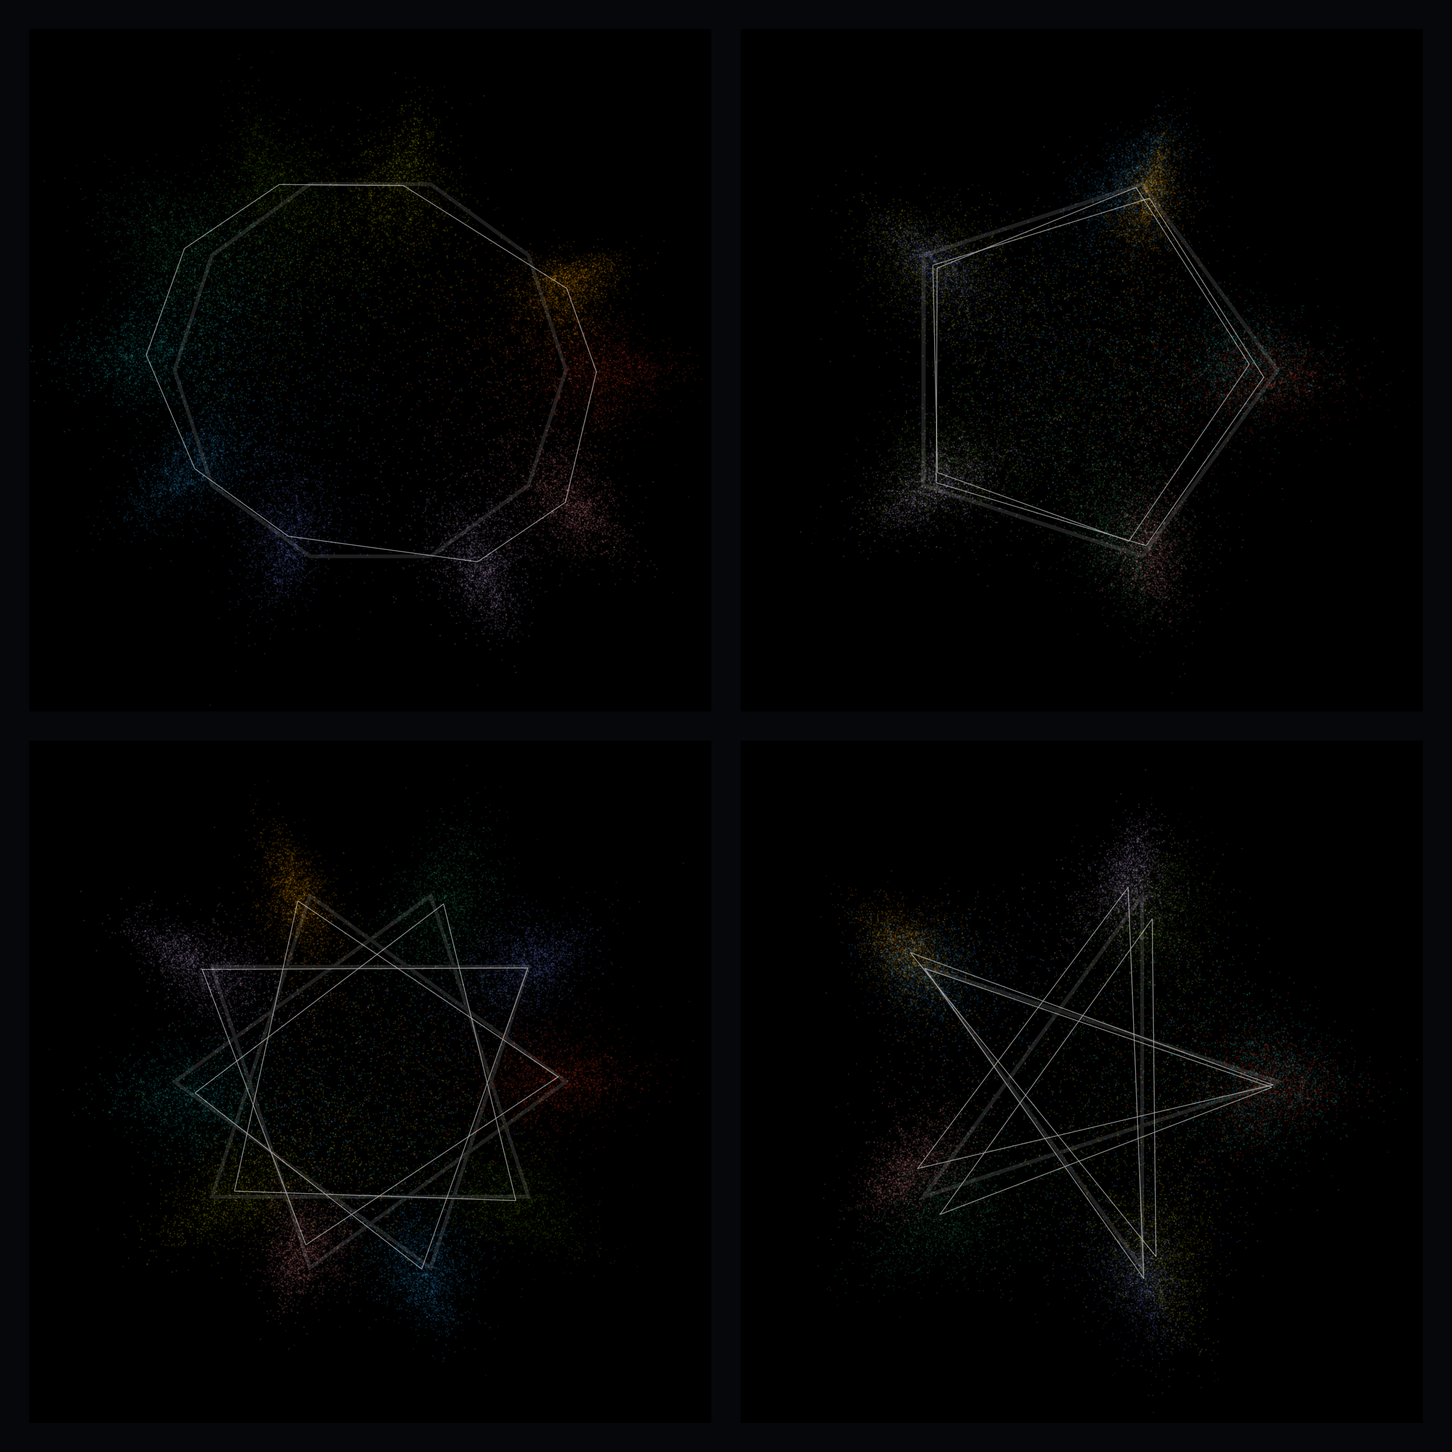
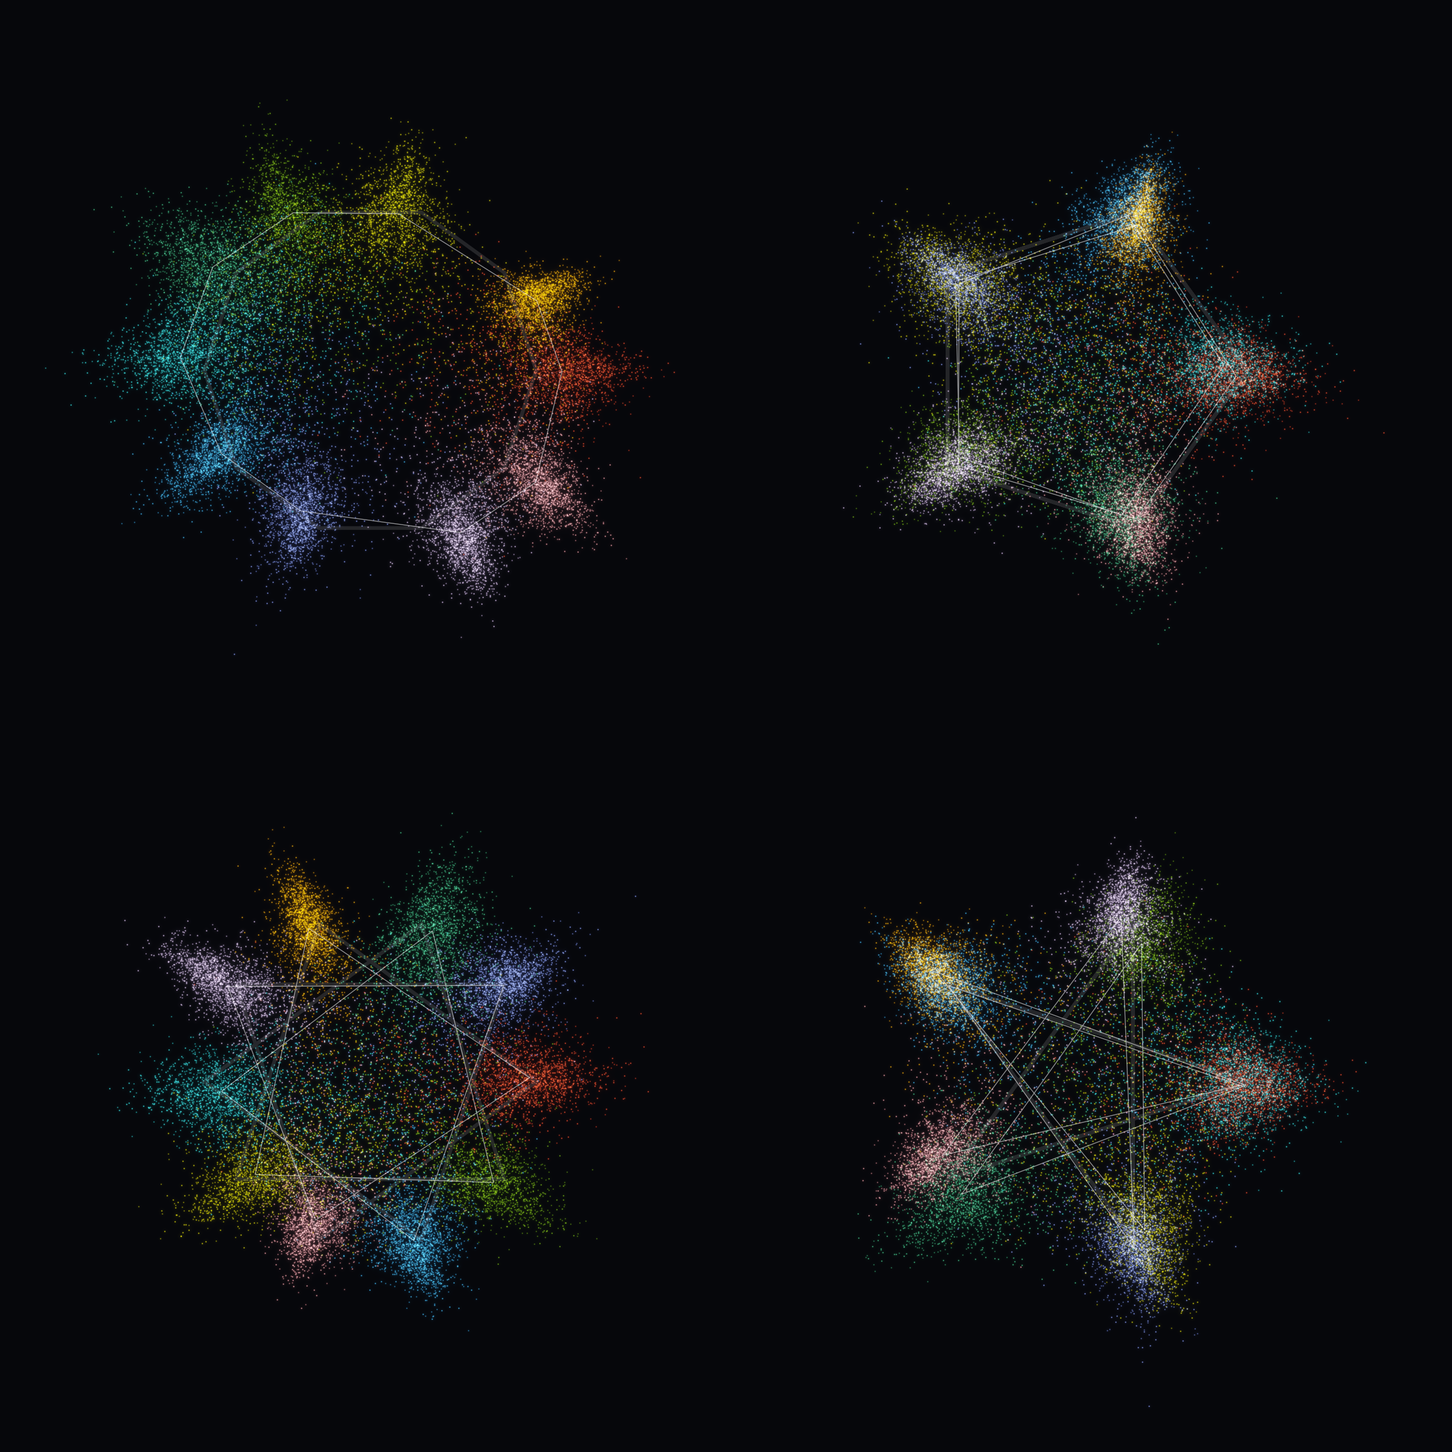
art/neural-collapse: README with verification vs random null, re-exposed star plates, NOTES

diff --git a/art/neural-collapse/README.md b/art/neural-collapse/README.md
@@ -1,0 +1,125 @@
+# Neural Collapse: stars and tetrahedra from the terminal phase of training
+
+*Train a ResNet far past zero training error and its last-layer class means drift toward a perfectly symmetric simplex. For 10 classes the Fourier planes of that simplex show {10/k} star polygons, and for 4 classes it is a regular tetrahedron you can 3-D print. This page shows how close our runs actually got, including where they didn't beat a random baseline.*
+
+<p align="center">
+<img src="gallery/stars_c10_night_k3_ep200.00.png" width="46%">
+<img src="gallery/tetra_series_c4_brass.png" width="52%">
+</p>
+
+<p align="center">
+<video src="gallery/film_stars_c10_night_720.mp4" autoplay loop muted playsinline width="46%"></video>
+<video src="gallery/film_tetra_c4_brass.mp4" autoplay loop muted playsinline width="46%"></video>
+</p>
+
+## 1. The phenomenon
+
+Papyan, Han and Donoho (2020) looked at the penultimate features h of a classifier trained past 100 % train accuracy (the *terminal phase*). Let μ_c be the class means, μ_G the global mean, Σ_W the within-class and Σ_B the between-class covariance, and W the last-layer weights. They found four properties:
+
+- **NC1, variability collapse:** tr(Σ_W Σ_B⁺)/C → 0. Each class cloud shrinks onto its mean.
+- **NC2, simplex ETF:** the centred means μ_c − μ_G become equal-norm and equiangular, with cos(μ_c−μ_G, μ_c'−μ_G) → −1/(C−1). This is the most spread-out way to place C points.
+- **NC3, self-duality:** W/‖W‖ → M/‖M‖, so the classifier rows line up with the means.
+- **NC4, nearest-class-mean:** the network's decision becomes argmin_c ‖h − μ_c‖.
+
+**Why stars.** A C-point simplex ETF lives in the (C−1)-dimensional space 1⊥. The discrete Fourier vectors cos(2πkj/C) and sin(2πkj/C) for k = 1…⌊(C−1)/2⌋ form an orthonormal basis of that space. In plane k, vertex j sits at angle 2πkj/C on a circle. Joining j → j+1 therefore draws the regular star polygon {C/k}. For C = 10 that gives {10/1} a decagon, {10/2} two coincident pentagons, {10/3} a decagram and {10/4} two coincident pentagrams (k = 5 is a line). The measured means are mapped onto this frame by an **isometry**: an SVD basis of their span, orthogonal Procrustes onto the ideal vertices, and one global scale. Because there is no shear, a non-ETF configuration still looks non-ETF. The maths was checked numerically: an exact ETF gives residual 8e-16. **Misfit** = ‖aligned means − ideal‖_F / ‖ideal‖_F.
+
+**Why a tetrahedron.** For C = 4 the centred means span exactly 3 dimensions, so the 3-D picture is faithful up to rotation and a single scale. Nothing is lost in projection. Only the sample clouds, which live in 256-d, are projected.
+
+## 2. Gallery
+
+### C = 10: star-polygon projections (CIFAR-10)
+| | |
+|---|---|
+| <img src="gallery/stars_c10_night_k1234_ep200.00.png" width="100%"> | <img src="gallery/stars_c10_night_k3_sequence.png" width="100%"> |
+| **Night, epoch 200.** Planes k=1..4. 10k train-subset and 10k test features, class hue (colorcet cyclic, declared), additive glow with per-plate auto exposure (declared). Bright line = measured means, faint line = ideal. | **{10/3} over training** (epochs 0, 0.1, 1, 5, 20, 60, 100, 200), with misfit and NC1 in each tile. |
+| <img src="gallery/stars_c10_spectral_k1234_ep200.00.png" width="100%"> | <img src="gallery/stars_c10_riso_k1234_ep200.00.png" width="100%"> |
+| **Spectral (Sohl-Dickstein split).** Per-sample logit margin (correct − best other). Red side = misclassified, purple/blue side = correct, rank-normalised per side, dark seam = decision boundary. The misclassified points (almost all test) fill the centre. | **Riso.** Fluo pink = train, blue = test, with a declared 4 px/1200 misregistration. Train collapses onto the vertices while test stays a haze inside. |
+| <img src="gallery/plotter_stars_c10_ink.png" width="100%"> | <img src="gallery/plotter_stars_c10_spectral.png" width="100%"> |
+| **Plotter sheet.** 31 distinct log-spaced checkpoints of the mean star, overdrawn (faint = early, heavy = late). Red dashes = ideal. The heavy late lines visibly miss the ideal, which matches the residual misfit of 0.11. | **Same sheet, Spectral by epoch.** A declared sequential use of Spectral, labelled variant only. |
+| <img src="gallery/stars_c10_night_k1234_ep000.00.png" width="100%"> | <img src="gallery/stars_c10_night_k1234_ep010.00.png" width="100%"> |
+| Initialisation (misfit 0.915): features share one dominant direction. | Epoch 10 (misfit 0.364). |
+
+**Film.** [`film_stars_c10_night_720.mp4`](gallery/film_stars_c10_night_720.mp4) (26 s, 720², 10 MB) and a [GIF](gallery/film_stars_c10_night.gif) (360 px, 11 MB). It runs through all 93 checkpoints with 8 linearly tweened frames each, then a 2 s hold. Exposure is fixed for the whole film from the epoch-10 checkpoint, so condensation shows up as brightening. Each frame has its own global scale (feature norm grows 0.11 → 14.6). The checkpoint spacing is roughly logarithmic, so film time is not linear in epoch. A 1080² master `gallery/film_stars_c10_night_1080.mp4` (75 MB) is **not committed**; regenerate it with `film_stars.py`.
+
+### C = 4: terminal-phase tetrahedra (airplane, automobile, bird, cat)
+| | |
+|---|---|
+| <img src="gallery/tetra_series_c4_brass.png" width="100%"> | <img src="gallery/tetra_series_c4_plotter.png" width="100%"> |
+| **Brass, I–V** = init, epoch 2, 16, 60, 250. Measured means as tubes, dotted ghost = ideal. The class-coloured dust is train + test samples projected into the 3-D mean span (lossy). Captions give the 6 measured angles. | **Plotter.** Line only, hidden edges dashed (declared depth cue). |
+| <img src="gallery/tetra_series_c4_cyanotype.png" width="100%"> | <img src="gallery/tetra_series_c4_spectral.png" width="100%"> |
+| **Cyanotype.** | **Spectral.** Edge colour = signed deviation of that pairwise angle from 109.47°, split at 0 (purple = more acute, red = more obtuse), rank-normalised across the series. |
+
+**Rotation film.** [`film_tetra_c4_brass.mp4`](gallery/film_tetra_c4_brass.mp4) (25 s, 1080²) and a [GIF](gallery/film_tetra_c4_brass.gif). The shape morphs through all 101 checkpoints (4 tweened frames each) while the camera turns, then the final state makes a full 360° turn. Dust exposure is fixed from epoch 60.
+
+**Meshes.** `gallery/stl/terminal_phase_{I..V}_ep*.stl` are rods, spheres and a hub, with the ideal circumradius 50 mm and measured vertex positions.
+
+### Metrics as images
+| | |
+|---|---|
+| <img src="gallery/misfit_c10_c4_paper.png" width="100%"> | <img src="gallery/curves_c10_c4_paper.png" width="100%"> |
+| **Misfit vs epoch** for train means, test means and classifier rows, against **random-means null bands** (i.i.d. Gaussian means, d = 256 and d = 64, 5–95 %). | **NC1–NC4 and error**, train solid and test dashed, with log epoch and lr drops dotted. The grey band on the NC2 rows is the same random null. ([night version](gallery/curves_c10_c4_night.png), [night misfit](gallery/misfit_c10_c4_night.png)) |
+| <img src="gallery/gram_c10_train_test_spectral.png" width="100%"> | <img src="gallery/gram_c10_means_W_pal_indigo_madder.png" width="100%"> |
+| **Cosine-matrix grid, C = 10.** 48 log-spaced checkpoints. Upper triangle = train means, lower = test means. Colour = cos − (−1/9), split at the ideal and rank-normalised per side globally. Tiles darken toward the seam as the means approach the ETF. | **Means (upper) vs classifier rows W (lower)**, palettes.py `indigo_madder` split. Also [riso](gallery/gram_c10_means_W_riso.png). |
+| <img src="gallery/gram_c4_train_test_spectral.png" width="100%"> | <img src="gallery/gram_c4_train_test_pal_aurora_ember.png" width="100%"> |
+| C = 4, Spectral. | C = 4, palettes.py `aurora_ember`. |
+
+## 3. What was computed
+
+- **Model/data:** CIFAR-10 ResNet18 (3×3 stem, no maxpool) at **width 32** (penultimate d = 256), not the paper's width 64. No augmentation, per-channel standardisation, balanced classes (5000 per class).
+- **Optimiser:** SGD, momentum 0.9, lr 0.05, wd 5e-4, batch 128, lr ÷10 at E/3 and 2E/3. **c10: 200 epochs** (all 10 classes), **c4: 250 epochs** (classes 0–3). Paper: 350 epochs and an lr sweep; we used one lr and one seed (0). bf16 autocast for training; features extracted in fp32; statistics in float64.
+- **Checkpoints:** iterations 5–240 inside epoch 1, every epoch 0–30, every 2 to 100, every 5 after (93 for c10, 101 for c4). Per-checkpoint stats use a fixed class-balanced train subset (1000/class c10, 2500/class c4) and the full test set. Full-train NC1/accuracy is recorded every 10 epochs; subset and full NC1 agree (c10 final 0.0439 vs 0.0436).
+- **Wall time:** c10 6664 s, c4 3774 s on a shared GB10 (≈2.9 GPU-h total). All rendering is CPU.
+- **Reproduce:**
+```bash
+./run_train.sh                                         # both runs via gpu_run.sh -> cache/c10, cache/c4
+python misfit.py compute c10 c4 && python misfit.py render c10 c4 --style paper   # also --style night
+python render_curves.py c10 c4 --style paper           # night
+python render_stars.py c10 --epoch 200 --style night   # riso | spectral ; --planes 3 --res 3000 for the hero
+python plotter_stars.py c10 [--ink spectral]
+python film_stars.py c10 --fpc 8 --hold 60             # 1080 master; 720 copy: ffmpeg -vf scale=720:720 -crf 30
+python render_tetra.py c4 --epochs 0 2 16 60 250 --style brass --panel 1000   # plotter|cyanotype|spectral ; --stl
+python film_tetra.py c4 --style brass --workers 3
+python render_gram.py c10 --style spectral             # --pair means_W --style riso|pal_indigo_madder ; c4 pal_aurora_ember
+```
+(Python = `/home/fzeng/ml/research/art/.venv/bin/python`. The `stars_c10_night_k3_sequence.png` montage was composed with PIL from `render_stars.render` at 8 epochs.)
+
+## 4. Verification and honesty
+
+**Did collapse happen? Train: yes, strongly for NC1 and NC4. Test: only partly.**
+
+| final | NC1 train | NC1 test | cos-std train | cos-std test | norm spread train | NC3 | NC4 test | test acc |
+|---|---|---|---|---|---|---|---|---|
+| c10 (ep 200) | **0.044** (from 50 at init) | 0.387 | 0.082 | 0.154 | 0.028 | 0.179 | 0.011 | 86.7 % |
+| c4 (ep 250) | **0.0070** | 0.212 | 0.025 | 0.148 | 0.024 | 0.187 | 0.0023 | 90.2 % |
+
+Train accuracy reaches 100 % in both runs and train NC4 is 0. Most of the NC1 drop happens at the first lr decay (see curves).
+
+**Random-means null (key caveat).** In high dimension, random vectors are already nearly equiangular. For C i.i.d. N(0, I_d) means (4000 draws) the Procrustes misfit to the ETF is:
+
+| | null d=256: 5 / 50 / 95 % | null d=64 median | measured train | test | W |
+|---|---|---|---|---|---|
+| C=10 | 0.081 / 0.097 / 0.114 | 0.196 | **0.112** | 0.231 | **0.037** |
+| C=4 | 0.028 / 0.053 / 0.085 | 0.108 | **0.029** (min 0.016 @ ep 225) | 0.164 | **0.022** |
+
+- **C = 10 train means never beat the random null at their own width.** Their final misfit of 0.112 sits inside the d = 256 band, and the NC2 cosine std (0.082) is worse than random (0.061). So the star shape of the 10 means alone is *not* evidence of an ETF in this run. What does show collapse is the **clouds**: NC1 falls 1000×, and random means would not make samples condense onto them. It also shows in the classifier rows, whose misfit of 0.037 is well below the null. The star picture's "starriness" is also partly geometric necessity: 10 generic points in 256-d already project near-regularly.
+- **C = 4 train means do beat the null.** Misfit drops below the null median at epoch 76 (first lr decay) and ends at 0.029 ≈ the null's 5th percentile. The max angle error is 2.07° at epoch 250 (1.57° at epoch 125). Test means (0.164) do not beat even the d = 64 null.
+- **Init is far from ETF, not near it.** Init misfit is 0.92 (c10) and 0.50 (c4), because init features share a dominant direction (cos-std 0.58). The trajectory really does go from far-from-ETF to near the random-level floor. The classifier W starts at the null level (≈0.10, random init), moves away, then comes back well below it.
+- **NC3 plateaus at ~0.18** in both runs, so self-duality was not reached (it is still decreasing slowly on a log axis at the end). This is a partial negative result.
+- Fractal/self-similar claims: none made. The star polygons are exact symmetry of the ideal, not fractal structure.
+
+## 5. Caveats
+
+- Width 32 and 200/250 epochs instead of width 64 and 350 epochs, with one lr and one seed. Stronger NC2 would plausibly need longer training or a sweep. Papyan et al. report their best lr per dataset.
+- The class order in the Fourier frame is a **declared choice**. The ETF is symmetric under all permutations of the classes, so the particular star (which class sits at which vertex) is ours. A different order gives different but equally ideal star polygons, and Procrustes (reflection allowed) handles orientation.
+- Projections of sample clouds are lossy: C=10 clouds are shown in 2 of 9 mean-span dims (and 256 total), and C=4 dust in 3 of 256. Only the **means** in the tetrahedron are exact.
+- Per-checkpoint global scale hides the ~130× growth of feature norms. Exposure and glow are aesthetic. Tweened film frames are interpolations, not measurements.
+- Stats use a class-balanced train subset (checked against full-train NC1 every 10 epochs).
+- The misfit mixes norm inequality and angle error. The curves plate separates them (NC2 cos-std and norm spread).
+- Git-skipped (>20 MB): `gallery/film_stars_c10_night_1080.mp4`.
+
+## 6. References
+
+- V. Papyan, X.Y. Han, D. Donoho, *Prevalence of neural collapse during the terminal phase of deep learning training*, PNAS 2020 (arXiv:2008.08186).
+- X.Y. Han, V. Papyan, D. Donoho, *Neural collapse under MSE loss*, ICLR 2022.
+- J. Sohl-Dickstein, *The boundary of neural network trainability is fractal* (Spectral split style), github.com/Sohl-Dickstein/fractal.
+- Palettes: `/home/fzeng/ml/research/art/color-research/palettes.py` (indigo_madder, aurora_ember).

diff --git a/art/neural-collapse/NOTES.md b/art/neural-collapse/NOTES.md
@@ -1,58 +1,30 @@
-# neural-collapse — NOTES (handoff)
+# neural-collapse: NOTES (handoff)
 
-## State (2026-09-13, session 1 end)
-- **Training runs launched but still QUEUED** behind other agents' jobs (all 8 gpu_run slots were busy).
-  Launched with `./run_train.sh` at 12:38; the two `gpu_run.sh` waiters (PIDs 1002730 c10, 1002731 c4) are
-  orphaned to init (PPID 1), so they survive session end. Do NOT `pkill -f run_train.sh` (it kills your own shell). Logs stay empty until a slot
-  is acquired (first line `[gpu_run] slot N acquired`).
-  - `cache/c10`: all 10 CIFAR classes, ResNet18 width 32, 200 epochs, stats on 1000/class train subset. `logs/c10.log`
-  - `cache/c4`: classes 0-3 (airplane, automobile, bird, cat), width 32, 250 epochs, 2500/class subset. `logs/c4.log`
-  - Check: `ps aux | grep train_nc | grep -v grep`; `tail -n 3 logs/c4.log`. If the waiters died
-    (no processes, empty logs): re-run `nohup ./run_train.sh &` (overwrites cache/<tag>).
-- Expected cost on the contended GPU: ~40 s/epoch c10 (+~12 s per checkpoint measure), ~16 s/epoch c4.
-  c10 ≈ 2.5-3 h, c4 ≈ 1.2 h. Record actual wall time from `metrics.jsonl` "time" field for README.
-- `cache/toy10`: old 3-epoch width-64 toy (500/class, 512-d), dev only; all renderers ran on it OK.
+## State (2026-09-13, session 2 end): ALL PIECES RENDERED, README written
+- Training done. c10: width 32, 200 ep, 6664 s, NC1 0.044 train / 0.387 test, test acc 86.7 %.
+  c4: width 32, 250 ep, 3774 s, NC1 0.0070 / 0.212, test acc 90.2 %. No background processes running.
+- `cache/misfit_{c10,c4}.npz` (from `misfit.py compute`) = misfit series (train/test/W) + random-null quantiles.
+- Gallery done: star plates (night/riso/spectral, k1234 at ep 0/10/200, k3 hero 3000 px, k3 8-epoch sequence),
+  plotter star sheets (ink, spectral), star film (720 MP4 10 MB + GIF 11 MB; 1080 master 75 MB not committed),
+  tetra series I–V (epochs 0 2 16 60 250; brass/plotter/cyanotype/spectral, view az 20 el -20) + 5 STL,
+  tetra rotation film (brass MP4 16.6 MB + GIF 15.2 MB), misfit plot (paper/night), NC curves with null bands
+  (paper/night), gram grids (c10 spectral, c10 means_W riso + pal_indigo_madder, c4 spectral + pal_aurora_ember).
+- Film frame PNGs remain in scratch/film_c10 and scratch/filmtetra_c4_brass (gitignored; delete if disk needed).
 
-## Code (all CPU renderers read cache/, write gallery/ + a downscaled preview to scratch/prev_*.png)
-- `train_nc.py` compute. Per checkpoint npz: mu, muG, mu_test, W, b, gram_M/gram_W/gram_Mtest, sv_M,
-  cov_sub, SW_eig, h_train (subset, f16), h_test (full test set, f16). metrics.jsonl: nc1, nc1_test,
-  {M,W,Mtest}_{equinorm,cos_std,cos_dev}, nc3, acc/loss/nc4 train+test, full_* every 10 epochs.
-  Checkpoints: every epoch 0-30, every 2 to 100, every 5 after, + it0005..it0240 inside epoch 1.
-  Model state saved at E/3, 2E/3, E.
-- `nclib.py`: `load_run(tag)`, `fourier_etf(C)` (orthonormal DFT basis of 1-perp; rows = ideal ETF
-  vertices; `planes[k]` column idx), `Aligner(mu, muG)` = SVD basis of centred means + orthogonal
-  Procrustes onto the Fourier ETF + one global scale (isometry; `.residual` = relative Procrustes misfit,
-  0 for exact ETF, verified 8e-16), `pick_ckpts`.
-- `artlib.py`: splat / glow / tonemap / exact-pixel canvas / save+preview.
-- `render_stars.py tag --epoch E --style night|riso|spectral [--planes 1 2 3 4] [--res]`:
-  2x2 plate of Fourier planes k=1..4 ({10/1},{10/2}=2 pentagons,{10/3},{10/4}=2 pentagrams; k=5 is a
-  line, not drawn), or single plane hero with `--planes 3`. night = class hue (colorcet cyclic, declared)
-  additive glow + measured star (bright) over ideal star (faint). riso = train fluo-pink vs test blue,
-  4px/1200 declared misregistration. spectral = per-sample logit margin (correct − best other) split
-  Sohl-Dickstein (red=misclassified, purple=correct, dark=near boundary). Planned: `plotter` style
-  (line-only stars of means over ~40 checkpoints, Molnár-like) — NOT yet written.
-- `render_tetra.py c4 --epochs e1..e5 --style brass|plotter|cyanotype|spectral` (series I–V plate with
-  captions: 6 pairwise angles, max dev from 109.47°); `--stl` writes gallery/stl/*.stl (rods+spheres+hub,
-  ideal circumradius 50 mm). spectral colours edges by signed angle deviation. UNTESTED (needs c4 data).
-- `render_curves.py c10 c4 --style paper|night`: NC1–NC4 + error small multiples, log epoch. Tested on toy.
-- `render_gram.py tag --pair train_test|means_W --style spectral|riso`: grid of CxC cosine tiles over
-  log-spaced checkpoints; upper triangle / lower triangle = the pair; split at −1/(C−1), global per-side
-  rank normalisation. Tested on toy (looks good; late tiles will darken toward the seam = ETF).
+## Key findings (in README §4)
+- **Corrected null:** at the real width d=256, random Gaussian means give misfit 0.097 median (5–95 %: 0.081–0.114)
+  for C=10, 0.053 (0.028–0.085) for C=4. Earlier 0.18 was for d=64.
+- c10 train-means misfit 0.112 NEVER beats the d=256 null; cos-std 0.082 is worse than random 0.061. W rows 0.037 do.
+- c4 train means beat the null (below median from epoch 76, final 0.029, min 0.016 @ 225); max angle error 2.07°.
+- Test means never beat even the d=64 null. NC3 plateaus at ~0.18 (self-duality not reached).
 
-## Findings so far
-- Null model for the star projection: 10 random Gaussian means in 64-d already give Procrustes
-  residual 0.18 (random high-d vectors are near-equiangular). Toy epoch 3: 0.54; init: 0.93.
-  README must show residual vs epoch against this null (and init) so stars aren't over-claimed.
-- Toy init gram: cos_std 0.62 (features at init share a direction), so init is far from ETF.
+## Possible next steps (optional polish)
+- Tetra GIF is 15.2 MB (slightly over ~15): re-encode at scale 420 if needed (`film_tetra.py` encode args).
+- Plotter/cyanotype rotation film (`python film_tetra.py c4 --style plotter`).
+- Longer c10 run (350 ep, width 64) would be needed for a star that beats the random null.
+- Commit: `/home/fzeng/ml/research/art/_shared/commit.sh neural-collapse "..."`.
 
-## Next steps
-1. When checkpoints appear: render stars/curves/gram on intermediate data; view previews; tune gain/EXT.
-2. c4: choose I–V epochs (e.g. init, ~it40, 1, 10, final, or by residual quantiles); render all 4 tetra
-   styles + STL; rotation MP4/GIF of final frame (brass) and a morph-through-epochs rotation film.
-3. `film_stars.py`: 1080² 2x2 night planes, per-sample linear tween between consecutive checkpoints
-   (declared), ~8 frames/ckpt, 30 fps, ffmpeg H.264 yuv420p + GIF (palettegen). Use <=4 workers.
-4. Plotter star style; train-vs-test diptych; residual-vs-epoch plot with null band.
-5. README (BRIEF structure), verification numbers, caveats (width 32 not 64, 200/250 epochs, one lr, bf16
-   training forward, subset stats, projection of samples is lossy for C=4 clouds, Procrustes allows
-   reflection, class order in Fourier planes is a declared choice — ETF is S_C-symmetric).
-6. Commit via `/home/fzeng/ml/research/art/_shared/commit.sh neural-collapse "..."`.
+## Code map
+train_nc.py (compute), nclib.py (load_run, fourier_etf, Aligner Procrustes), artlib.py (splat/glow/save+preview),
+misfit.py, render_curves.py, render_stars.py (auto exposure; `d["norm"]` fixes it), plotter_stars.py,
+film_stars.py, render_tetra.py (+ --stl), film_tetra.py, render_gram.py (styles spectral|riso|pal_<pairing>).
